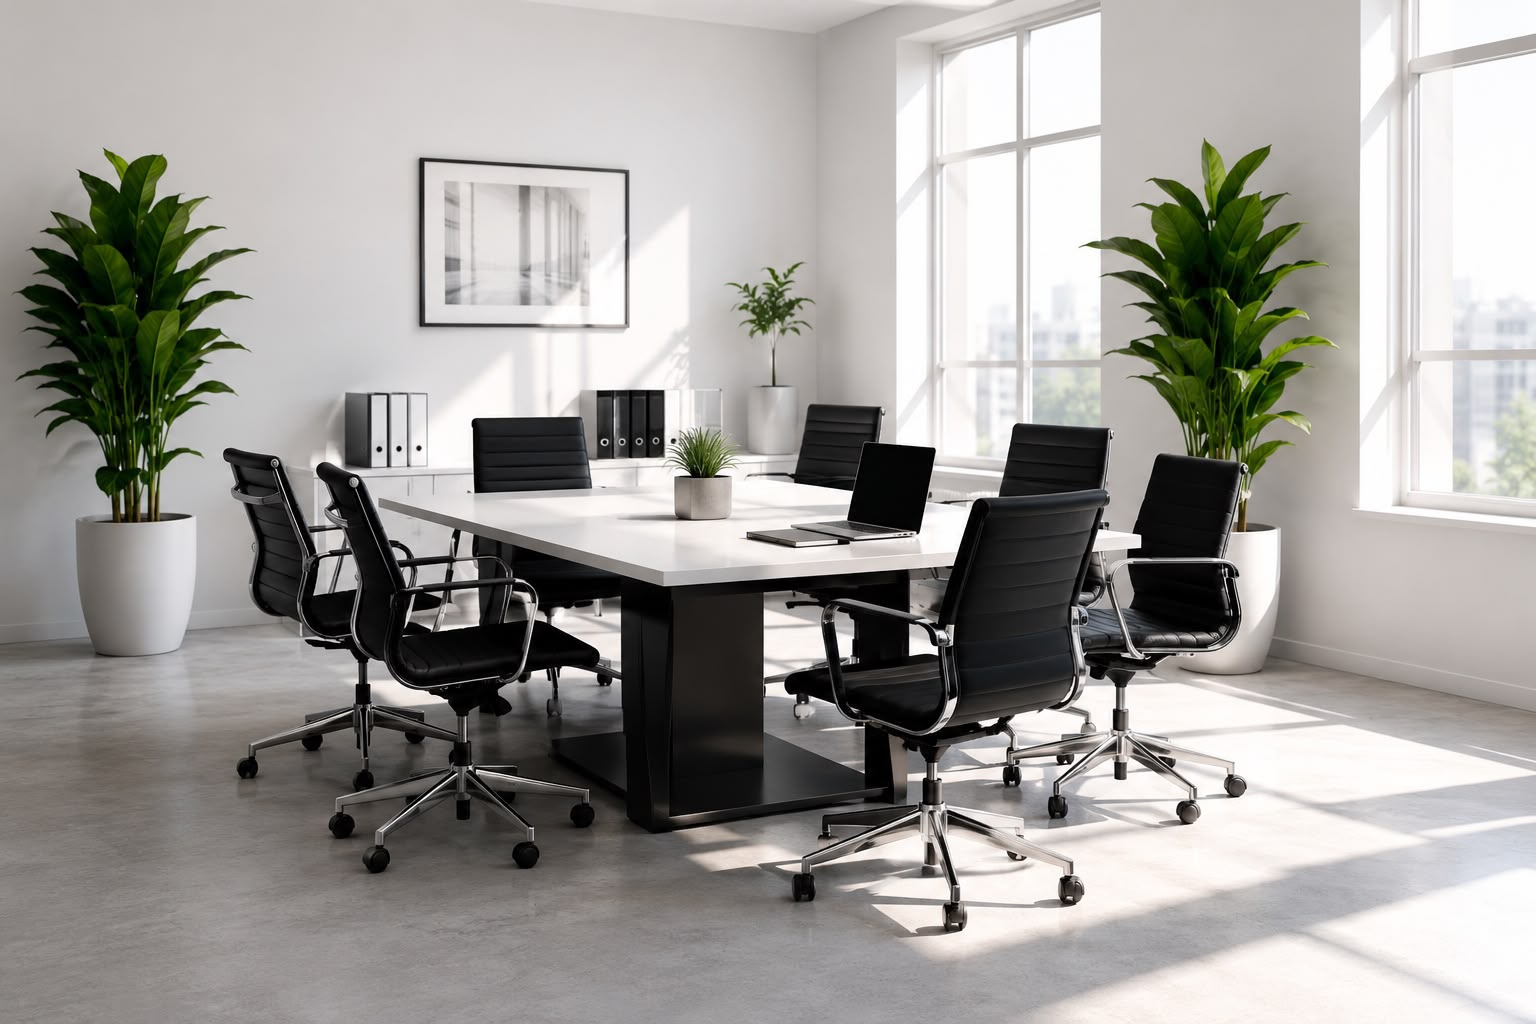
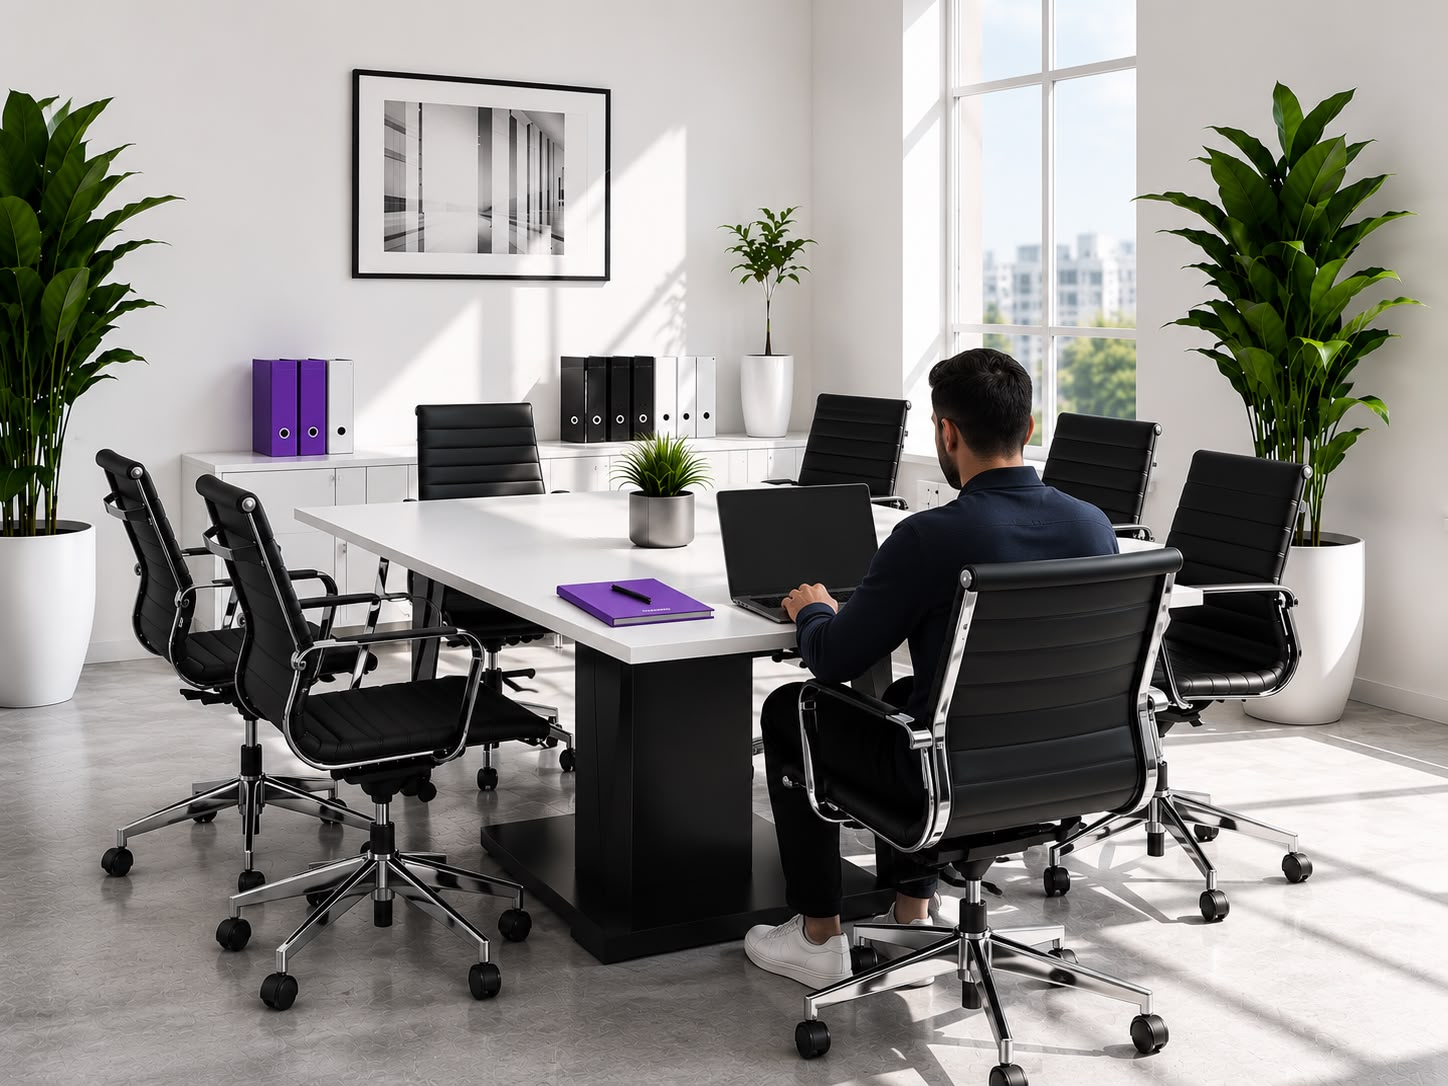
commit10

diff --git a/lib/serviceLandingData.ts b/lib/serviceLandingData.ts
@@ -29,7 +29,7 @@ export type ServiceLanding = {
       titleAccent: 'in Deutschland',
       subtitle: 'Genießen Sie ein sauberes Zuhause ohne Stress. Unsere geprüften Reinigungskräfte kümmern sich zuverlässig um Ihre Wohnung.',
       trustBadges: ['Geprüfte Profis', 'Zufriedenheitsgarantie'],
-      priceFrom: '32,90 €',
+      priceFrom: '24,90 €',
       priceUnit: 'pro Stunde',
       reviewCount: '4,9/5 (über 2.500 Bewertungen)',
       includes: [
@@ -71,9 +71,9 @@ export type ServiceLanding = {
     },
   
     bueroreinigung: {
-      slug: 'bueroreinigung',
+      slug: 'Firmenreinigung',
       badge: '★ Für ein produktives Arbeitsumfeld',
-      title: 'Büroreinigung',
+      title: 'Firmenreinigung',
       titleAccent: 'in Deutschland',
       subtitle: 'Saubere Arbeitsplätze für motivierte Mitarbeiter und einen professionellen Eindruck bei Kunden. Zuverlässig, flexibel und gründlich.',
       trustBadges: ['Geprüfte Profis', 'Zufriedenheitsgarantie'],
@@ -105,7 +105,7 @@ export type ServiceLanding = {
         { name: 'Sabrina L.', stars: 4, time: 'vor 3 Wochen', text: 'Klare Empfehlung für jede Firma, die Wert auf Sauberkeit und Hygiene legt.' },
       ],
       faqs: [
-        { q: 'Wie oft ist eine Büroreinigung sinnvoll?', a: 'Das hängt von der Größe und Nutzung ab – täglich, wöchentlich oder individuell nach Bedarf.' },
+        { q: 'Wie oft ist eine Firmenreinigung sinnvoll?', a: 'Das hängt von der Größe und Nutzung ab – täglich, wöchentlich oder individuell nach Bedarf.' },
         { q: 'Können wir einen individuellen Reinigungsplan erstellen?', a: 'Ja, wir passen die Leistungen gerne an Ihre spezifischen Anforderungen an.' },
         { q: 'Bringen Sie die eigenen Reinigungsmittel mit?', a: 'Ja, unsere Teams bringen professionelle Reinigungsmittel mit.' },
         { q: 'Was passiert, wenn wir mit der Reinigung nicht zufrieden sind?', a: 'Wir bieten eine Zufriedenheitsgarantie und reinigen bei Bedarf kostenlos nach.' },
@@ -113,8 +113,8 @@ export type ServiceLanding = {
       ],
       ctaTitle: 'Für ein',
       ctaAccent: 'sauberes & produktives Büro',
-      ctaSubtitle: 'Buchen Sie jetzt Ihre Büroreinigung in Deutschland in nur wenigen Klicks.',
-      ctaButton: 'Jetzt Büroreinigung buchen',
+      ctaSubtitle: 'Buchen Sie jetzt Ihre Firmenreinigung in Deutschland in nur wenigen Klicks.',
+      ctaButton: 'Jetzt Firmenreinigung buchen',
       heroImage: '/images/WhatsApp Image 2026-07-21 at 22.07.28.jpeg',
     },
   

diff --git a/app/pro-werden/page.tsx b/app/pro-werden/page.tsx
@@ -6,6 +6,12 @@ import { useEffect, useState } from 'react';
 export default function ProWerdenPage() {
   const [mobileMenuOpen, setMobileMenuOpen] = useState(false);
 
+  function handleBookingClick(e) {
+    e.preventDefault();
+    const isLoggedIn = !!localStorage.getItem('authToken'); // badel 'authToken' bel key eli tessta3mlou fi l app
+    window.location.href = isLoggedIn ? '/address' : '/login';
+  }
+
   useEffect(() => {
     document.title = "TANDEF – Reinigungsprofis in deiner Nähe finden";
     const slider = document.getElementById('avail-slider');
@@ -137,7 +143,7 @@ export default function ProWerdenPage() {
             </a>
           </nav>
           <div className="flex items-center gap-3">
-            <a href="/address" className="hidden md:inline-flex btn-primary text-white text-sm font-semibold px-5 py-2.5 rounded-full items-center gap-2">
+            <a href="/address" onClick={handleBookingClick} className="hidden md:inline-flex btn-primary text-white text-sm font-semibold px-5 py-2.5 rounded-full items-center gap-2">
               <svg width="16" height="16" viewBox="0 0 24 24" fill="none" stroke="white" strokeWidth="2"><rect x="3" y="4" width="18" height="18" rx="2" /><path d="M16 2v4M8 2v4M3 10h18" /></svg>
               Reinigung buchen
             </a>
@@ -183,7 +189,7 @@ export default function ProWerdenPage() {
               <svg width="18" height="18" viewBox="0 0 24 24" fill="none" stroke="currentColor" strokeWidth="1.8"><circle cx="12" cy="8" r="4" /><path d="M4 21c0-4 4-6 8-6s8 2 8 6" /></svg>
               Login
             </a>
-            <a href="/address" className="btn-primary text-white text-sm font-semibold px-5 py-3 rounded-full inline-flex items-center justify-center gap-2 mt-2">
+            <a href="/address" onClick={handleBookingClick} className="btn-primary text-white text-sm font-semibold px-5 py-3 rounded-full inline-flex items-center justify-center gap-2 mt-2">
               <svg width="16" height="16" viewBox="0 0 24 24" fill="none" stroke="white" strokeWidth="2"><rect x="3" y="4" width="18" height="18" rx="2" /><path d="M16 2v4M8 2v4M3 10h18" /></svg>
               Reinigung buchen
             </a>

diff --git a/app/page.tsx b/app/page.tsx
@@ -273,7 +273,7 @@ export default function HomePage() {
           <a href="/bueroreinigung" className="card overflow-hidden flex flex-col">
             <div className="p-6">
               <svg width="26" height="26" viewBox="0 0 24 24" fill="none" stroke="#5B21B6" strokeWidth="2"><rect x="4" y="3" width="16" height="18" rx="1" /><path d="M8 7h1M12 7h1M16 7h1M8 11h1M12 11h1M16 11h1M8 15h1M12 15h1M16 15h1" /></svg>
-              <p className="font-semibold mt-4 mb-1" style={{color: 'var(--purple-900)'}}>Büroreinigung</p>
+              <p className="font-semibold mt-4 mb-1" style={{color: 'var(--purple-900)'}}>Firmenreinigung</p>
               <p className="text-sm min-h-[60px]" style={{color: 'var(--muted)'}}>Saubere Arbeitsplätze für mehr Wohlbefinden und Produktivität.</p>
             </div>
             <div className="relative mt-auto">
@@ -304,12 +304,12 @@ export default function HomePage() {
         <div className="rounded-2xl grid grid-cols-2 md:grid-cols-4 gap-8 py-10 px-6" style={{background: 'var(--purple-50)'}}>
           <div className="text-center">
             <svg className="mx-auto mb-2" width="26" height="26" viewBox="0 0 24 24" fill="none" stroke="#5B21B6" strokeWidth="2"><circle cx="12" cy="8" r="4" /><path d="M4 21c0-4 4-6 8-6s8 2 8 6" /></svg>
-            <p className="text-2xl font-bold" style={{color: 'var(--purple-900)'}}>600+</p>
+            <p className="text-2xl font-bold" style={{color: 'var(--purple-900)'}}>400+</p>
             <p className="text-sm" style={{color: 'var(--muted)'}}>Zufriedene Kunden</p>
           </div>
           <div className="text-center">
             <svg className="mx-auto mb-2" width="26" height="26" viewBox="0 0 24 24" fill="none" stroke="#5B21B6" strokeWidth="2"><rect x="3" y="4" width="18" height="18" rx="2" /><path d="M16 2v4M8 2v4M3 10h18" /></svg>
-            <p className="text-2xl font-bold" style={{color: 'var(--purple-900)'}}>500+</p>
+            <p className="text-2xl font-bold" style={{color: 'var(--purple-900)'}}>600+</p>
             <p className="text-sm" style={{color: 'var(--muted)'}}>Abgeschlossene Reinigungen</p>
           </div>
           <div className="text-center">

diff --git a/components/ServiceLandingPage.tsx b/components/ServiceLandingPage.tsx
@@ -353,7 +353,7 @@ export function ServiceLandingPage({ data }: { data: ServiceLanding }) {
             <p className="font-semibold mb-3" style={{color: 'var(--purple-900)'}}>Leistungen</p>
             <ul className="space-y-2" style={{color: 'var(--muted)'}}>
               <li><a href="/wohnungsreinigung" className="hover:opacity-70">Wohnungsreinigung</a></li>
-              <li><a href="/bueroreinigung" className="hover:opacity-70">Büroreinigung</a></li>
+              <li><a href="/bueroreinigung" className="hover:opacity-70">Firmenreinigung</a></li>
               <li><a href="/umzugsreinigung" className="hover:opacity-70">Umzugsreinigung</a></li>
             
             </ul>
